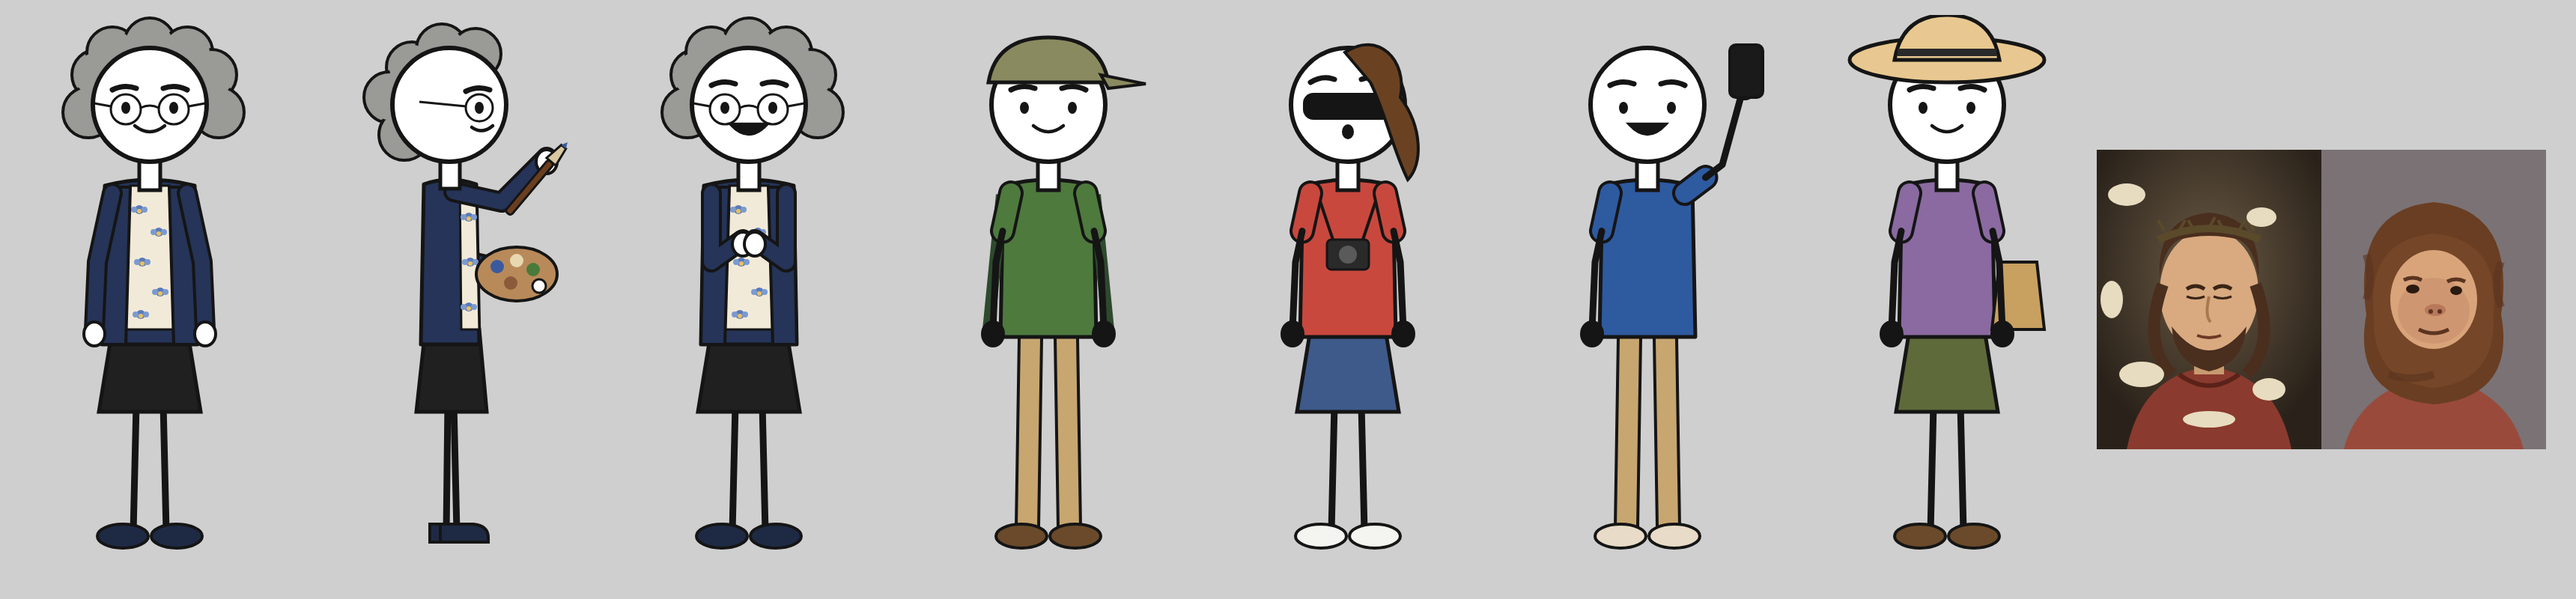
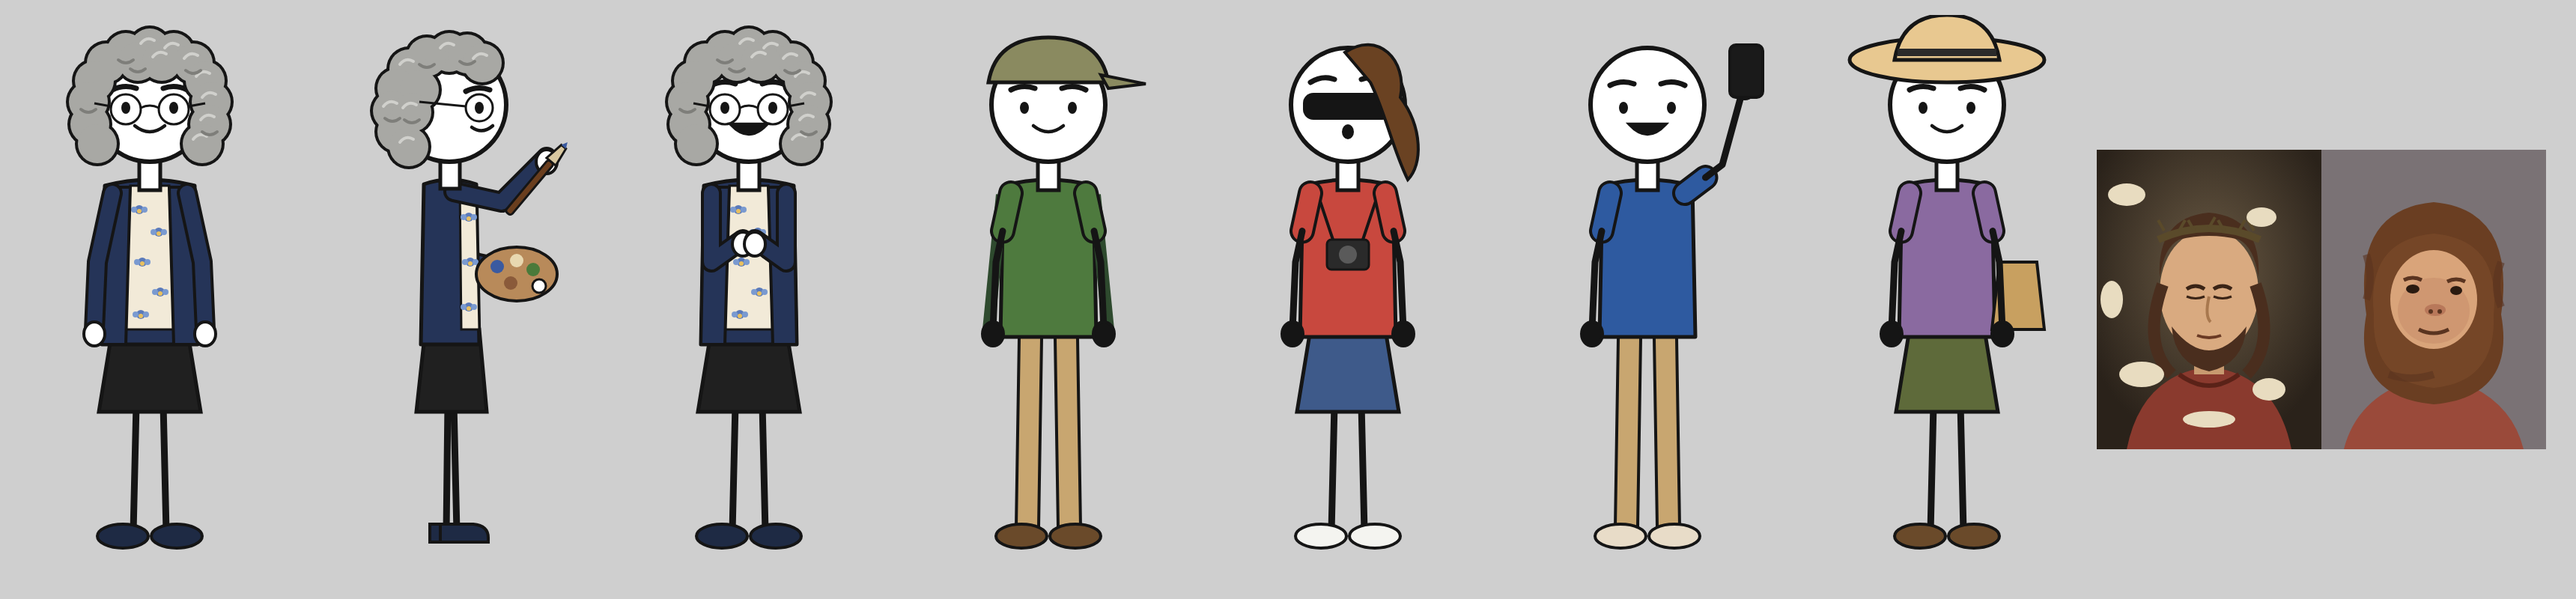
003: pelo de Cecilia por encima de la cabeza, turistas de espaldas/perfil/frente, plaza más llena sin tocar el banco
Claude-Session: https://claude.ai/code/session_01WqueqmNwLH2A2bwKD2Jsqo

Changed region(s): [[0.2488, 0.0312, 0.3422, 0.2812], [0.0311, 0.0312, 0.0933, 0.2812], [0.1244, 0.0312, 0.2177, 0.2812]]

diff --git a/codigo/personajes/borja.js b/codigo/personajes/borja.js
@@ -1,8 +1,18 @@
 // Personajes del 003: Cecilia (pintora aficionada) y turistas. También los dos cuadros del Ecce Homo.
 const { figura, T } = require('./figura');
 
-const rizos = (vista) => { const c = vista === 'perfil' ? [[150, 70], [120, 110], [140, 160], [190, 46], [235, 52]] : [[130, 80], [118, 130], [150, 50], [200, 38], [250, 50], [282, 80], [292, 130]];
-  return c.map(([x, y]) => `<circle cx="${x}" cy="${y}" r="34" fill="#9A9A96" stroke="${T}" stroke-width="4"/>`).join('') + c.map(([x, y]) => `<circle cx="${x}" cy="${y}" r="30" fill="#9A9A96"/>`).join(''); };
+// Pelo rizado canoso: masa de rizos POR ENCIMA de la cabeza (cubre coronilla y laterales), dejando la cara libre.
+const rizos = (vista) => {
+  const pts = vista === 'perfil'
+    ? [[200, 50], [170, 56], [146, 72], [130, 98], [124, 128], [130, 156], [146, 176], [224, 52], [244, 64], [160, 100], [150, 130]]
+    : [[200, 44], [168, 50], [232, 50], [142, 64], [258, 64], [126, 88], [274, 88], [118, 116], [282, 116], [120, 146], [280, 146], [130, 172], [270, 172], [184, 62], [216, 62]];
+  const r = 26;
+  const capa1 = pts.map(([x, y]) => `<circle cx="${x}" cy="${y}" r="${r + 4}" fill="${T}"/>`).join('');
+  const capa2 = pts.map(([x, y]) => `<circle cx="${x}" cy="${y}" r="${r}" fill="#A8A8A4"/>`).join('');
+  const brillos = pts.filter((_, i) => i % 2 === 0).map(([x, y]) => `<path d="M${x - 12} ${y - 6} q8 -10 18 -4" stroke="#D0D0CC" stroke-width="4" fill="none" stroke-linecap="round"/>`).join('');
+  const sombras = pts.filter((_, i) => i % 3 === 1).map(([x, y]) => `<path d="M${x - 10} ${y + 10} q10 8 20 0" stroke="#7E7E7A" stroke-width="4" fill="none" stroke-linecap="round"/>`).join('');
+  return capa1 + capa2 + brillos + sombras;
+};
 const gafas = (vista) => vista === 'perfil'
   ? `<circle cx="240" cy="124" r="18" fill="none" stroke="${T}" stroke-width="3"/><path d="M222 122 L160 116" stroke="${T}" stroke-width="3"/>`
   : `<circle cx="168" cy="126" r="20" fill="none" stroke="${T}" stroke-width="3"/><circle cx="232" cy="126" r="20" fill="none" stroke="${T}" stroke-width="3"/><path d="M188 124 Q200 118 212 124 M148 122 L126 118 M252 122 L274 118" stroke="${T}" stroke-width="3" fill="none"/>`;
@@ -19,23 +29,39 @@ const pincel = (x, y, rot) => `<g transform="translate(${x} ${y}) rotate(${rot})
 const escalera = `<g stroke="${T}" stroke-width="6"><path d="M150 760 L190 500 M260 760 L230 500 M170 640 H245 M160 700 H252" stroke="#8A8A8A" stroke-width="10" fill="none"/><rect x="180" y="490" width="62" height="14" fill="#6A6A6A"/></g>`;
 
 const cecilia = {
-  depie: (cara = 'amable') => figura({ vista: 'frente', cara, ropa: ropaCecilia, pecho: blusa('frente'), detrasCabeza: rizos('frente'), cabeza: gafas('frente') }),
-  orgullosa: () => figura({ vista: 'frente', cara: 'contento', ropa: ropaCecilia, pecho: blusa('frente'), detrasCabeza: rizos('frente'), cabeza: gafas('frente'),
+  depie: (cara = 'amable') => figura({ vista: 'frente', cara, ropa: ropaCecilia, pecho: blusa('frente'), cabeza: rizos('frente') + gafas('frente') }),
+  orgullosa: () => figura({ vista: 'frente', cara: 'contento', ropa: ropaCecilia, pecho: blusa('frente'), cabeza: rizos('frente') + gafas('frente'),
     brazoIzq: [[150, 330], [192, 300]], brazoDer: [[250, 330], [208, 300]] }),
   // Pintando: perfil mirando a la derecha. El pincel llega a x≈350, y≈170 de su caja.
-  pintando: () => figura({ vista: 'perfil', cara: 'amable', ropa: ropaCecilia, pecho: blusa('perfil'), detrasCabeza: rizos('perfil'), cabeza: gafas('perfil'),
+  pintando: () => figura({ vista: 'perfil', cara: 'amable', ropa: ropaCecilia, pecho: blusa('perfil'), cabeza: rizos('perfil') + gafas('perfil'),
     brazoDer: [[270, 250], [330, 190]], brazoIzq: [[230, 330], [276, 340]], delante: pincel(336, 196, 40) + paleta(290, 346) }),
   escalera,
 };
 
-const turista = (i) => {
+const turista = (i, vista = 'frente') => {
+  const P = vista === 'perfil', E = vista === 'espalda';
+  const gorra = P ? `<path d="M124 86 Q132 30 200 28 Q258 30 268 74 L330 90 Q300 98 124 96 Z" fill="#8A8A60" stroke="${T}" stroke-width="5"/>`
+    : `<path d="M120 90 Q130 30 200 30 Q270 30 280 90 Z" fill="#8A8A60" stroke="${T}" stroke-width="5"/>` + (E ? '' : `<path d="M270 80 L330 92 L280 98 Z" fill="#8A8A60" stroke="${T}" stroke-width="4"/>`);
+  const coleta = P ? `<path d="M150 70 C100 60 70 110 90 170 C110 140 120 110 160 96 Z" fill="#6A4222" stroke="${T}" stroke-width="4"/><path d="M126 100 Q160 40 230 52 Q200 70 160 90 Z" fill="#6A4222"/>`
+    : E ? `<path d="M124 110 Q120 40 200 38 Q280 40 276 110 Q240 80 200 80 Q160 80 124 110 Z" fill="#6A4222" stroke="${T}" stroke-width="4"/><path d="M190 90 C170 150 180 210 200 230 C220 210 230 150 210 90 Z" fill="#6A4222" stroke="${T}" stroke-width="4"/>`
+    : `<rect x="140" y="104" width="120" height="36" rx="14" fill="#151515"/><path d="M196 50 C240 20 280 60 270 110 C300 150 300 200 280 220 C260 180 250 130 230 90 Z" fill="#6A4222" stroke="${T}" stroke-width="4"/>`;
+  const gafasSol = P ? `<rect x="226" y="108" width="34" height="26" rx="8" fill="#151515"/><path d="M226 116 L160 110" stroke="#151515" stroke-width="5"/>` : '';
+  const sombrero = P ? `<ellipse cx="200" cy="64" rx="120" ry="22" fill="#E8C890" stroke="${T}" stroke-width="5"/><path d="M140 64 Q150 6 200 4 Q250 6 260 64 Z" fill="#E8C890" stroke="${T}" stroke-width="5"/><path d="M144 54 H256" stroke="#2A2A2A" stroke-width="10"/>`
+    : `<ellipse cx="200" cy="60" rx="130" ry="30" fill="#E8C890" stroke="${T}" stroke-width="5"/><path d="M130 60 Q140 0 200 0 Q260 0 270 60 Z" fill="#E8C890" stroke="${T}" stroke-width="5"/><path d="M134 50 H266" stroke="#2A2A2A" stroke-width="10"/>`;
+  const canas = E ? `<path d="M122 120 Q120 70 200 68 Q280 70 278 120 Q280 170 250 180 H150 Q120 170 122 120 Z" fill="#B8B8B4" stroke="${T}" stroke-width="4"/>` : '';
+  const mochila = E ? `<rect x="150" y="250" width="100" height="150" rx="18" fill="#2E4A2E" stroke="${T}" stroke-width="5"/><rect x="165" y="330" width="70" height="50" rx="8" fill="#3A5A3A"/>`
+    : P ? `<rect x="120" y="250" width="50" height="150" rx="14" fill="#2E4A2E" stroke="${T}" stroke-width="5"/>` : `<path d="M138 240 L120 420 M262 240 L280 420" stroke="#2E4A2E" stroke-width="16"/>`;
+  const camara = E ? `<path d="M160 240 L240 240" stroke="#151515" stroke-width="4"/>` : P ? `<rect x="226" y="300" width="40" height="34" rx="6" fill="#2A2A2A" stroke="${T}" stroke-width="3"/>`
+    : `<rect x="172" y="300" width="56" height="40" rx="6" fill="#2A2A2A" stroke="${T}" stroke-width="3"/><circle cx="200" cy="320" r="12" fill="#5A5A5A"/><path d="M160 240 L180 300 M240 240 L220 300" stroke="#151515" stroke-width="4"/>`;
   const tipos = [
-    { torso: '#4E7A3E', pantalon: '#C8A670', zapatos: '#6A4A2A', cab: `<path d="M120 90 Q130 30 200 30 Q270 30 280 90 Z" fill="#8A8A60" stroke="${T}" stroke-width="5"/><path d="M270 80 L330 92 L280 98 Z" fill="#8A8A60" stroke="${T}" stroke-width="4"/>`, pecho: `<path d="M138 240 L120 420 M262 240 L280 420" stroke="#2E4A2E" stroke-width="16"/>` },
-    { torso: '#C8483E', pantalon: '#3E5A8A', zapatos: '#F4F4F0', falda: '#3E5A8A', cab: `<rect x="140" y="104" width="120" height="36" rx="14" fill="#151515"/><path d="M196 50 C240 20 280 60 270 110 C300 150 300 200 280 220 C260 180 250 130 230 90 Z" fill="#6A4222" stroke="${T}" stroke-width="4"/>`, pecho: `<rect x="172" y="300" width="56" height="40" rx="6" fill="#2A2A2A" stroke="${T}" stroke-width="3"/><circle cx="200" cy="320" r="12" fill="#5A5A5A"/><path d="M160 240 L180 300 M240 240 L220 300" stroke="#151515" stroke-width="4"/>` },
-    { torso: '#2E5AA0', pantalon: '#C8A670', zapatos: '#E8DCC8', cab: '', pecho: '', brazoDer: [[300, 200], [330, 90]], delante: `<rect x="310" y="40" width="44" height="70" rx="8" fill="#1A1A1A" stroke="${T}" stroke-width="4"/>` },
-    { torso: '#8A6AA0', pantalon: '#151515', zapatos: '#6A4A2A', falda: '#5E6A3A', cab: `<ellipse cx="200" cy="60" rx="130" ry="30" fill="#E8C890" stroke="${T}" stroke-width="5"/><path d="M130 60 Q140 0 200 0 Q260 0 270 60 Z" fill="#E8C890" stroke="${T}" stroke-width="5"/><path d="M134 50 H266" stroke="#2A2A2A" stroke-width="10"/>`, pecho: `<path d="M270 330 h50 l10 90 h-70 z" fill="#C8A060" stroke="${T}" stroke-width="4"/>` },
+    { torso: '#4E7A3E', pantalon: '#C8A670', zapatos: '#6A4A2A', cab: gorra, pecho: mochila },
+    { torso: '#C8483E', pantalon: '#3E5A8A', zapatos: '#F4F4F0', falda: '#3E5A8A', cab: coleta + gafasSol, pecho: camara },
+    { torso: '#2E5AA0', pantalon: '#C8A670', zapatos: '#E8DCC8', cab: E ? `<path d="M126 100 Q130 40 200 40 Q270 40 274 100 Q240 74 200 74 Q160 74 126 100 Z" fill="#3A2A1E" stroke="${T}" stroke-width="4"/>` : '', pecho: '',
+      brazoDer: P ? [[262, 200], [300, 110]] : E ? [[290, 200], [300, 100]] : [[300, 200], [330, 90]],
+      delante: P ? `<rect x="286" y="60" width="44" height="64" rx="8" fill="#1A1A1A" stroke="${T}" stroke-width="4"/>` : E ? `<rect x="278" y="50" width="44" height="66" rx="8" fill="#F4F4F0" stroke="${T}" stroke-width="4"/><rect x="284" y="58" width="32" height="50" fill="#6A8AC0"/>` : `<rect x="310" y="40" width="44" height="70" rx="8" fill="#1A1A1A" stroke="${T}" stroke-width="4"/>` },
+    { torso: '#8A6AA0', pantalon: '#151515', zapatos: '#6A4A2A', falda: '#5E6A3A', cab: canas + sombrero, pecho: P ? '' : `<path d="M270 330 h50 l10 90 h-70 z" fill="#C8A060" stroke="${T}" stroke-width="4"/>` },
   ][i % 4];
-  return figura({ vista: 'frente', cara: ['amable', 'sorpresa', 'contento', 'amable'][i % 4], ropa: { torso: tipos.torso, pantalon: tipos.pantalon, zapatos: tipos.zapatos, manos: '#151515', falda: tipos.falda, mangaCorta: true, largoChaqueta: 430 },
+  return figura({ vista, cara: ['amable', 'sorpresa', 'contento', 'amable'][i % 4], ropa: { torso: tipos.torso, pantalon: tipos.pantalon, zapatos: tipos.zapatos, manos: '#151515', falda: tipos.falda, mangaCorta: true, largoChaqueta: 430 },
     cabeza: tipos.cab, pecho: tipos.pecho, brazoDer: tipos.brazoDer, delante: tipos.delante });
 };
 

diff --git a/codigo/montaje/render_003.js b/codigo/montaje/render_003.js
@@ -68,15 +68,16 @@ function multitud(n, semilla, { y0 = 1480, y1 = 1900, x0 = -40, x1 = 1120, hueco
     const y = y0 + (y1 - y0) * Math.pow(rnd(), 0.8), x = x0 + (x1 - x0) * rnd();
     if (hueco && Math.abs(x - hueco[0]) < hueco[2] && Math.abs(y - hueco[1]) < hueco[2] * 0.5) continue;
     // Zonas prohibidas: el banco de piedra (y la gente justo detrás, que quedaría encima) y las rocas de las esquinas.
-    if (x < 600 && y > 1540 && y < 1900) continue;
+    if (x > 20 && x < 540 && y > 1592 && y < 1900) continue;
     if (x < 340 && y > 1730) continue;
     if (x > 740 && y > 1840) continue;
-    gente.push([x, y, Math.floor(rnd() * 4), COLORES[Math.floor(rnd() * COLORES.length)], rnd() < 0.5]);
+    const v = rnd(); gente.push([x, y, Math.floor(rnd() * 4), COLORES[Math.floor(rnd() * COLORES.length)], v < 0.5 ? 'espalda' : v < 0.85 ? 'perfil' : 'frente', x > 600]);
   }
   gente.sort((p, q) => p[1] - q[1]);
-  return gente.map(([x, y, tipo, color, espejo]) => {
+  return gente.map(([x, y, tipo, color, vista, mirarIzq]) => {
+    const espejo = vista === 'perfil' ? mirarIzq : false;
     const sc = 0.17 + (y - y0) / (y1 - y0) * 0.17;
-    let svg = turista(tipo).replace(/#4E7A3E|#C8483E|#2E5AA0|#8A6AA0/g, color);
+    let svg = turista(tipo, vista).replace(/#4E7A3E|#C8483E|#2E5AA0|#8A6AA0/g, color);
     const fig = capa(svg, x - 200 * sc, y - 712 * sc, sc);
     return sombra(x, y, 46 * sc / 0.27) + (espejo ? `<g transform="translate(${2 * x} 0) scale(-1 1)">${fig}</g>` : fig);
   }).join('');
@@ -116,7 +117,7 @@ const ESCENAS = {
     ${movil(250, 520, -8, 'ECCE MONO', 0)}${movil(800, 470, 7, 'MONKEY CHRIST', 1)}${movil(540, 980, 0, '¡VIRAL!', 2)}${movil(240, 1430, 6, 'BBC NEWS', 3)}${movil(830, 1440, -6, 'OMG 😂', 4)}
     <g id="e08sello" opacity="0" transform="translate(540 960) rotate(-8)"><rect x="-420" y="-110" width="840" height="220" rx="14" fill="#F2E6CF"/><rect x="-420" y="-110" width="840" height="220" rx="14" fill="none" stroke="#C0392B" stroke-width="16"/>
       <text x="0" y="50" text-anchor="middle" font-family="Inter" font-weight="900" font-size="150" fill="#C0392B">ECCE MONO</text></g>`,
-  e09: `<g id="e09zoom">${fondo(santuario())}${multitud(150, 7)}</g>
+  e09: `<g id="e09zoom">${fondo(santuario())}${multitud(190, 7)}</g>
     <rect id="e09flash" width="1080" height="1920" fill="#fff" opacity="0"/>
     <g id="e09cont" opacity="0"><rect x="200" y="240" width="680" height="210" rx="14" fill="#0B0E13" opacity="0.85"/>
       <text id="e09num" x="540" y="370" text-anchor="middle" font-family="Inter" font-weight="900" font-size="110" fill="#FFD34D">0</text><text x="540" y="420" text-anchor="middle" font-family="JetBrains Mono" font-weight="800" font-size="34" fill="#F2E6CF">VISITANTES</text></g>
@@ -127,7 +128,7 @@ const ESCENAS = {
       <text x="300" y="1170" text-anchor="middle" font-family="JetBrains Mono" font-weight="800" font-size="34" fill="#0B0E13">ENTRADA</text>
       <text x="300" y="1236" text-anchor="middle" font-family="Inter" font-weight="900" font-size="64" fill="#C0392B">2 €</text></g>
     ${sombra(780, 1660, 100)}${capa(luciaFrente({ cara: 'explicando' }), 650, 1000, 0.92, '', 'lucia')}</g>`,
-  e11: `<g id="e11zoom">${fondo(santuario())}${multitud(130, 3, { hueco: [560, 1830, 170] })}
+  e11: `<g id="e11zoom">${fondo(santuario())}${multitud(170, 3, { hueco: [560, 1830, 170] })}
     <g id="e11teo">${teoMini('chulo', 560, 1860)}</g></g>`,
   e12: `<g id="e12zoom">${fondo(archivoSinMesa)}${capa(teoFrente({ cara: 'chulo' }), 290, 760, 1.25, '', 'teo')}${mesa()}<g transform="translate(560 1505) scale(0.55 0.22)">${capa(O.expediente(), 0, 0, 1)}</g></g>`,
   e13: `<rect width="1080" height="1920" fill="#07090D"/><circle cx="540" cy="760" r="520" fill="url(#hFocoG)"/>

diff --git a/codigo/personajes/figura.js b/codigo/personajes/figura.js
@@ -67,7 +67,8 @@ function silla() {
 }
 
 function figura(o = {}) {
-  const vista = o.vista || 'frente', sentado = o.pose === 'sentado';
+  const espalda = o.vista === 'espalda';
+  const vista = espalda ? 'frente' : (o.vista || 'frente'), sentado = o.pose === 'sentado';
   const r = Object.assign({ torso: '#2B3A5C', mangas: null, pantalon: '#2B2B33', zapatos: '#151515', manos: '#151515', largoChaqueta: 440 }, o.ropa || {});
   const mangas = r.mangas || r.torso;
   const perfil = vista === 'perfil';
@@ -114,7 +115,7 @@ function figura(o = {}) {
   ${o.detrasCabeza || ''}
   <path d="M${perfil ? 188 : 186} 176 V${perfil ? 232 : 234} H${perfil ? 214 : 214} V176 Z" fill="#fff" stroke="${T}" stroke-width="5"/>
   <circle cx="200" cy="120" r="76" fill="#fff" stroke="${T}" stroke-width="6"/>
-  ${cara(vista, o.cara || 'serio')}
+  ${espalda ? '' : cara(vista, o.cara || 'serio')}
   ${o.cabeza || ''}
   ${o.delante || ''}
   </svg>`;
